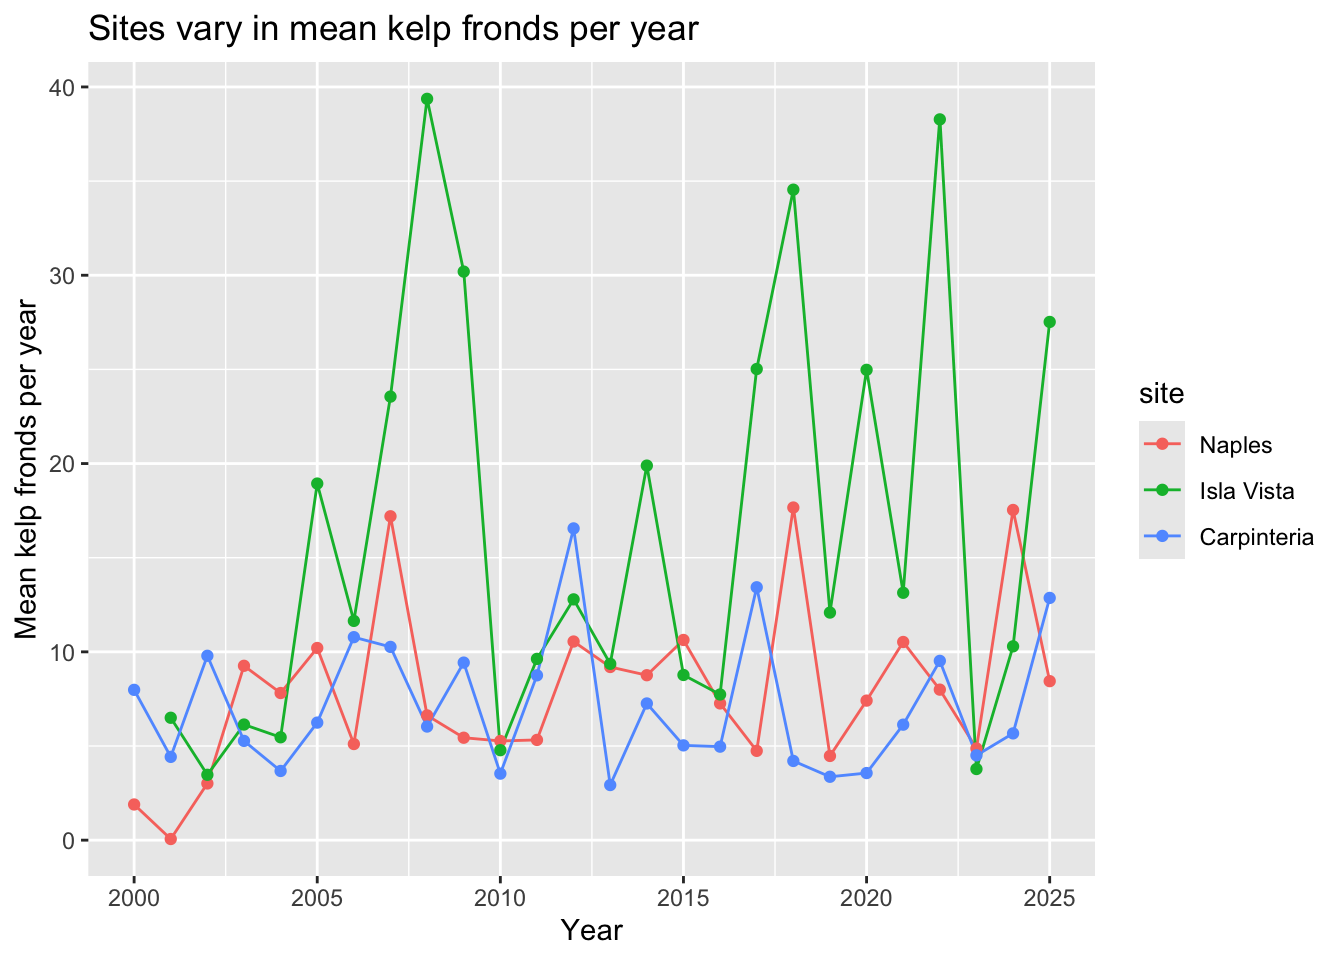
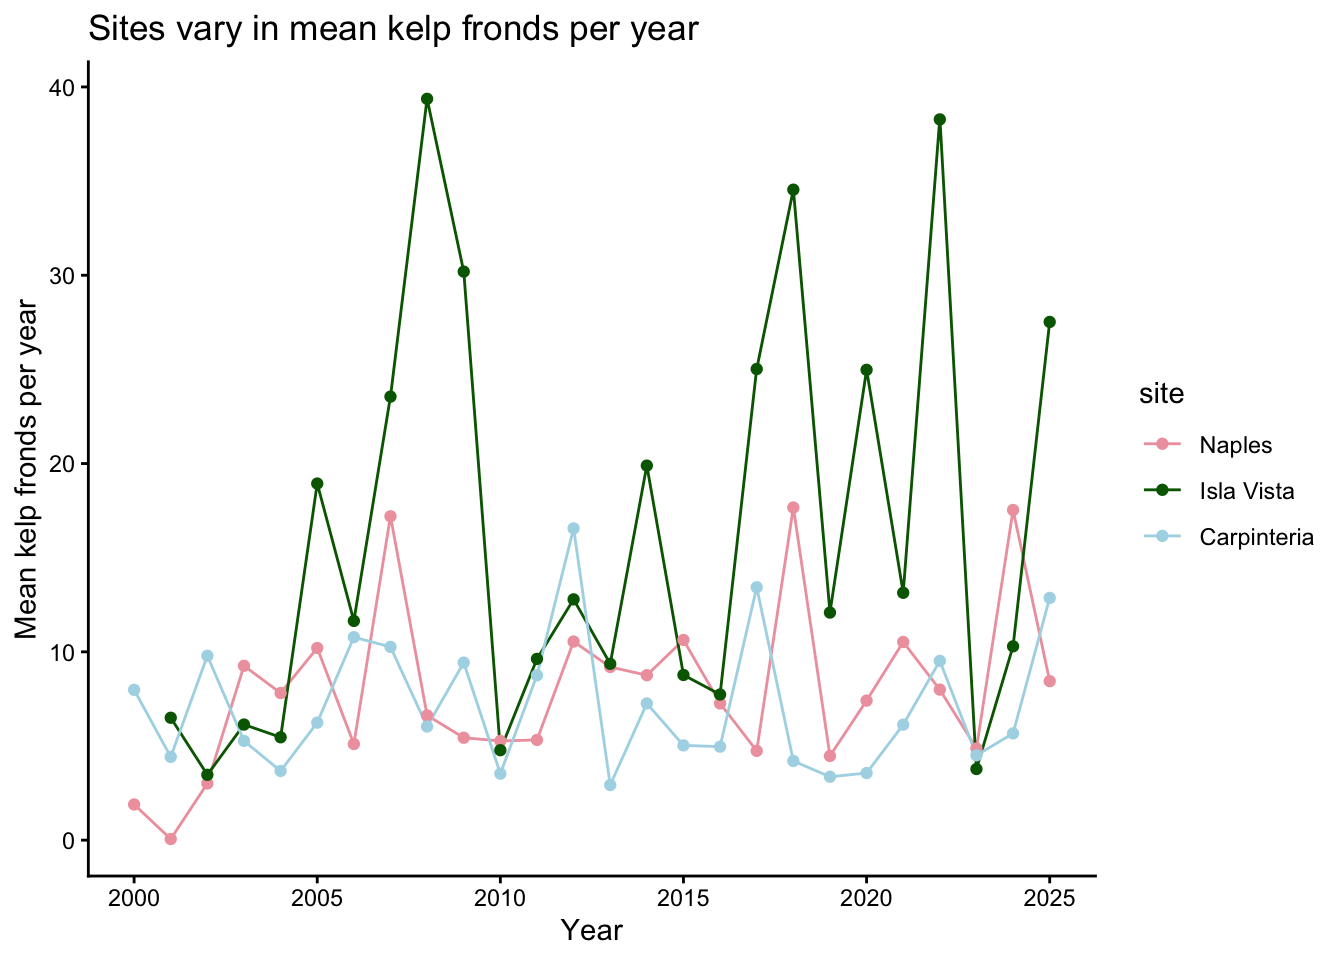
finished annotating problem 2

diff --git a/code/final_code.html b/code/final_code.html
@@ -170,11 +170,11 @@ pre > code.sourceCode > span > a:first-child::before { text-decoration: underlin
 <pre><code># A tibble: 5 × 3
   site         year mean_fronds
   &lt;fct&gt;       &lt;int&gt;       &lt;dbl&gt;
-1 Naples       2013        9.20
-2 Carpinteria  2025       12.9 
-3 Carpinteria  2013        2.93
-4 Carpinteria  2016        4.97
-5 Carpinteria  2001        4.42</code></pre>
+1 Carpinteria  2023        4.50
+2 Carpinteria  2020        3.56
+3 Carpinteria  2000        7.98
+4 Carpinteria  2006       10.8 
+5 Carpinteria  2025       12.9 </code></pre>
 </div>
 </div>
 <div class="cell">
@@ -189,15 +189,22 @@ pre > code.sourceCode > span > a:first-child::before { text-decoration: underlin
 <p>b) The value for fronds in this quad and transect is -99999. This value represents an NA, which occurred if (1) data were not collected for a particular species or (2) a datasheet was lost.</p>
 <p>c)</p>
 <div class="cell">
-<div class="code-copy-outer-scaffold"><div class="sourceCode cell-code" id="cb6"><pre class="sourceCode r code-with-copy"><code class="sourceCode r"><span id="cb6-1"><a href="#cb6-1" aria-hidden="true" tabindex="-1"></a><span class="fu">ggplot</span>(<span class="at">data =</span> kelp_clean,</span>
-<span id="cb6-2"><a href="#cb6-2" aria-hidden="true" tabindex="-1"></a>       <span class="fu">aes</span>(<span class="at">x =</span> year,</span>
-<span id="cb6-3"><a href="#cb6-3" aria-hidden="true" tabindex="-1"></a>           <span class="at">y =</span> mean_fronds,</span>
-<span id="cb6-4"><a href="#cb6-4" aria-hidden="true" tabindex="-1"></a>           <span class="at">color =</span> site)) <span class="sc">+</span> </span>
-<span id="cb6-5"><a href="#cb6-5" aria-hidden="true" tabindex="-1"></a>  <span class="fu">geom_line</span>() <span class="sc">+</span> </span>
-<span id="cb6-6"><a href="#cb6-6" aria-hidden="true" tabindex="-1"></a>  <span class="fu">geom_point</span>() <span class="sc">+</span> </span>
-<span id="cb6-7"><a href="#cb6-7" aria-hidden="true" tabindex="-1"></a>  <span class="fu">labs</span>(<span class="at">x =</span> <span class="st">"Year"</span>,</span>
-<span id="cb6-8"><a href="#cb6-8" aria-hidden="true" tabindex="-1"></a>       <span class="at">y =</span> <span class="st">"Mean kelp fronds per year"</span>,</span>
-<span id="cb6-9"><a href="#cb6-9" aria-hidden="true" tabindex="-1"></a>       <span class="at">title =</span> <span class="st">"Sites vary in mean kelp fronds per year"</span>)</span></code></pre></div><button title="Copy to Clipboard" class="code-copy-button"><i class="bi"></i></button></div>
+<div class="code-copy-outer-scaffold"><div class="sourceCode cell-code" id="cb6"><pre class="sourceCode r code-with-copy"><code class="sourceCode r"><span id="cb6-1"><a href="#cb6-1" aria-hidden="true" tabindex="-1"></a><span class="fu">ggplot</span>(<span class="at">data =</span> kelp_clean, <span class="co"># using kelp_clean data</span></span>
+<span id="cb6-2"><a href="#cb6-2" aria-hidden="true" tabindex="-1"></a>       <span class="fu">aes</span>(<span class="at">x =</span> year, <span class="co"># year as the x-axis</span></span>
+<span id="cb6-3"><a href="#cb6-3" aria-hidden="true" tabindex="-1"></a>           <span class="at">y =</span> mean_fronds, <span class="co"># mean kelp fronds as the y-axis</span></span>
+<span id="cb6-4"><a href="#cb6-4" aria-hidden="true" tabindex="-1"></a>           <span class="at">color =</span> site)) <span class="sc">+</span> <span class="co"># coloring by site</span></span>
+<span id="cb6-5"><a href="#cb6-5" aria-hidden="true" tabindex="-1"></a>  <span class="fu">geom_line</span>() <span class="sc">+</span> <span class="co"># plotting trendline</span></span>
+<span id="cb6-6"><a href="#cb6-6" aria-hidden="true" tabindex="-1"></a>  <span class="fu">geom_point</span>() <span class="sc">+</span> <span class="co"># # plotting data points</span></span>
+<span id="cb6-7"><a href="#cb6-7" aria-hidden="true" tabindex="-1"></a>  <span class="fu">scale_color_manual</span>(<span class="at">values =</span> <span class="fu">c</span>(</span>
+<span id="cb6-8"><a href="#cb6-8" aria-hidden="true" tabindex="-1"></a>    <span class="st">"Naples"</span> <span class="ot">=</span> <span class="st">"lightpink2"</span>,</span>
+<span id="cb6-9"><a href="#cb6-9" aria-hidden="true" tabindex="-1"></a>    <span class="st">"Isla Vista"</span> <span class="ot">=</span> <span class="st">"darkgreen"</span>,</span>
+<span id="cb6-10"><a href="#cb6-10" aria-hidden="true" tabindex="-1"></a>    <span class="st">"Carpinteria"</span> <span class="ot">=</span> <span class="st">"lightblue"</span>)) <span class="sc">+</span>  <span class="co"># manually coloring each site</span></span>
+<span id="cb6-11"><a href="#cb6-11" aria-hidden="true" tabindex="-1"></a>  <span class="fu">labs</span>(<span class="at">x =</span> <span class="st">"Year"</span>,</span>
+<span id="cb6-12"><a href="#cb6-12" aria-hidden="true" tabindex="-1"></a>       <span class="at">y =</span> <span class="st">"Mean kelp fronds per year"</span>,</span>
+<span id="cb6-13"><a href="#cb6-13" aria-hidden="true" tabindex="-1"></a>       <span class="at">title =</span> <span class="st">"Sites vary in mean kelp fronds per year"</span>) <span class="sc">+</span> <span class="co"># labeling x and y axis and title</span></span>
+<span id="cb6-14"><a href="#cb6-14" aria-hidden="true" tabindex="-1"></a>    <span class="fu">theme</span>(<span class="at">plot.title =</span> <span class="fu">element_text</span>(<span class="at">hjust =</span> <span class="fl">0.5</span>), <span class="co"># center title</span></span>
+<span id="cb6-15"><a href="#cb6-15" aria-hidden="true" tabindex="-1"></a>    <span class="at">panel.border =</span> <span class="fu">element_blank</span>()) <span class="sc">+</span> <span class="co"># no border</span></span>
+<span id="cb6-16"><a href="#cb6-16" aria-hidden="true" tabindex="-1"></a>  <span class="fu">theme_classic</span>() <span class="co"># making the theme classic</span></span></code></pre></div><button title="Copy to Clipboard" class="code-copy-button"><i class="bi"></i></button></div>
 <div class="cell-output-display">
 <div>
 <figure class="figure">
@@ -206,7 +213,7 @@ pre > code.sourceCode > span > a:first-child::before { text-decoration: underlin
 </div>
 </div>
 </div>
-<p>d) The site with the most variable mean kelp fronds per year is Isla Vista. We can tell that this is the case because the green line/points have the largest y-axis range. The site with the least variable mean kelp fronds per year is Carpinteria. We can tell that this is the case because the blue line/points has the smallest range on the y-axis, as well as a smaller number of spikes/dips.</p>
+<p>d) The site with the most variable mean kelp fronds per year is Isla Vista. We can tell that this is the case because the green line has the largest y-axis range (5 - 40 fronds). Furthermore, the Isla Vista site has very pronounced peaks and troughs, reinforcing the variability of this site. The site with the least variable mean kelp fronds per year is Carpinteria. We can tell that this is the case because the blue line has the smallest range on the y-axis, as well as a smaller number of peaks and troughs.</p>
 </section>
 <section id="problem-3.-data-analysis" class="level1">
 <h1>Problem 3. Data Analysis</h1>
